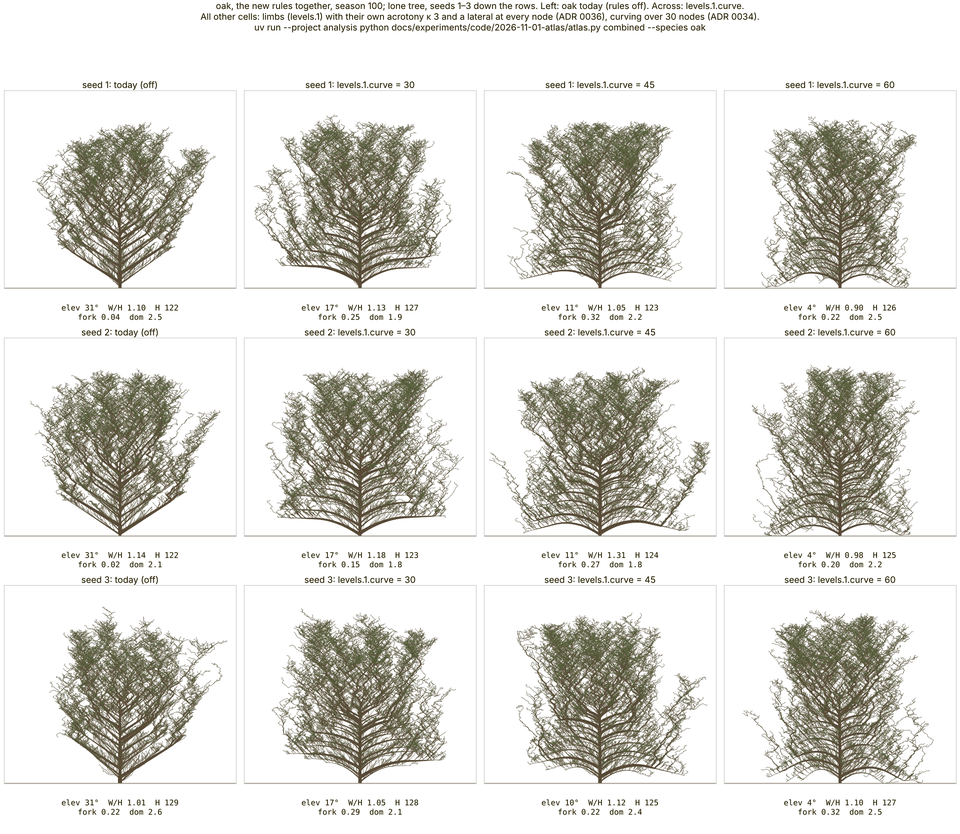
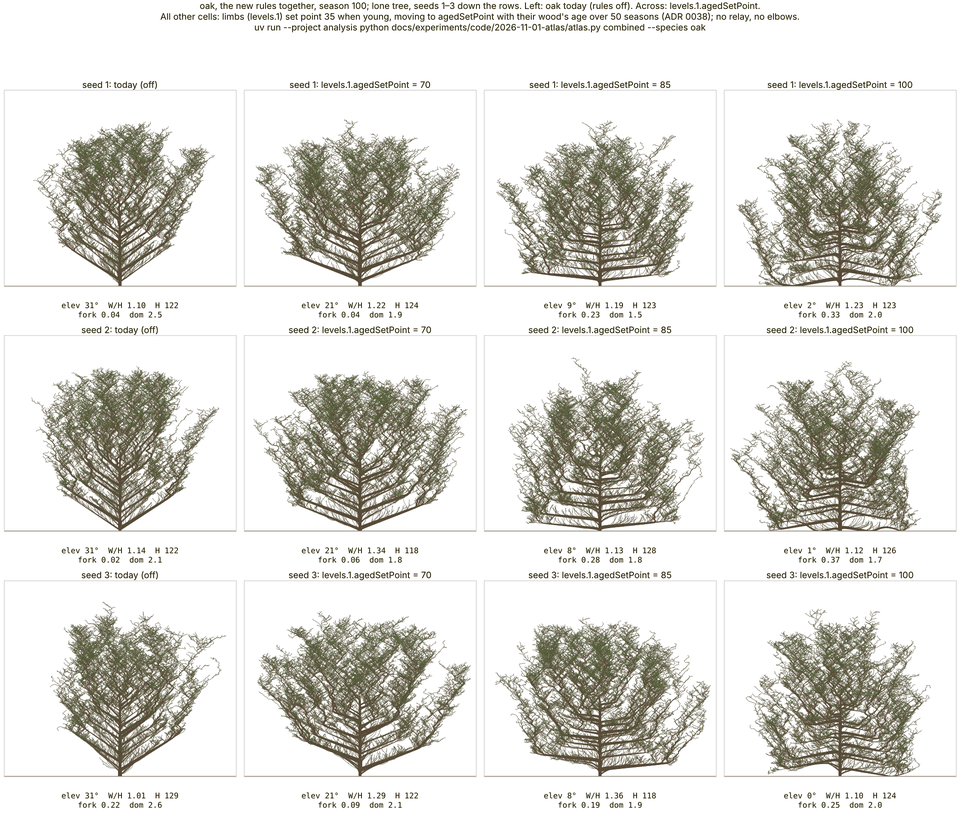
The atlas: combined sheets for hornbeam, oak, maple, willow, rowan and holly; picks.toml proposals for all eight
Claude-Session: https://claude.ai/code/session_01WY2dAShD9TmAUdQk34CWBC

diff --git a/docs/experiments/code/2026-11-01-atlas/atlas.py b/docs/experiments/code/2026-11-01-atlas/atlas.py
@@ -143,11 +143,15 @@ COMBINED: dict[str, dict] = {
         "note": "twigs (levels.2) hang at 140 up to radius 0.01 (ADR 0035), their own set point 45 in "
                 "place of today's 145 so only thin axes hang; twig laterals every k nodes (ADR 0036)",
     },
+    # Oak, second proposal (track A: "a broad, spreading head ... massive lower branches"; the trunk
+    # "tends to disappear in the crown"): posture by age, limbs steep when young (35, against 58.6
+    # in [form]) and levelling with their wood's age over 50 seasons. Elbows off. Replaces the first
+    # oak sheet (curvature + κ 3), which held at today's form.
     "oak": {
-        "base": {"r2.levels.1.kappa": 3, "r2.levels.1.lateralEvery": 1, "r2.levels.1.curveLength": 30},
-        "knob": ("r2.levels.1.curve", [30, 45, 60]),
-        "note": "limbs (levels.1) with their own acrotony κ 3 and a lateral at every node (ADR 0036), "
-                "curving over 30 nodes (ADR 0034)",
+        "base": {"r2.levels.1.setPoint": 35, "r2.levels.1.agedOver": 50},
+        "knob": ("r2.levels.1.agedSetPoint", [70, 85, 100]),
+        "note": "limbs (levels.1) set point 35 when young, moving to agedSetPoint with their wood's age "
+                "over 50 seasons (ADR 0038); no relay, no elbows",
     },
     # Beech with posture by age (ADR 0038) on top of the relay and the relays' curvature: young
     # limbs steep (set point 28), levelling toward 80 with their wood's age.
@@ -169,6 +173,44 @@ COMBINED: dict[str, dict] = {
         "knob": ("r2.levels.1.agedOver", [30, 50, 80]),
         "note": "limbs (levels.1) set point 60 when young, moving to 110 with their wood's age over "
                 "agedOver seasons (ADR 0038); everything else fir's own",
+    },
+    # Hornbeam (track A: Troll with beech; "irregular, ovoid or conic, becoming domed in old trees"):
+    # beech's direction, smaller: the relay later (25) and the relays' curve across, 20-40.
+    "hornbeam": {
+        "base": {"r2.relay": 2, "r2.relayAge": 25, "r2.relayPTerm": 0.6, "r2.levels.0.curveLength": 30},
+        "knob": ("r2.levels.0.curve", [20, 30, 40]),
+        "note": "relay 2, relayAge 25, relayPTerm 0.6 (ADR 0033); relays curve over 30 nodes (ADR 0034)",
+    },
+    # Field maple (track A: Rauh; "neatly shaped" open-grown, "a low dome"): the relay from early on,
+    # its age across, the relays curving 30 to round the top.
+    "maple": {
+        "base": {"r2.relay": 2, "r2.relayPTerm": 0.6, "r2.levels.0.curve": 30, "r2.levels.0.curveLength": 30},
+        "knob": ("r2.relayAge", [5, 10, 15]),
+        "note": "relay 2, relayPTerm 0.6 (ADR 0033); relays curve 30 over 30 nodes (ADR 0034)",
+    },
+    # Goat willow (track A: "a large, spreading, rounded shrub or small tree", "bushy"): birch's
+    # pendulous twigs on willow's own twig set point (54), the twig laterals' spacing across.
+    "willow": {
+        "base": {"r2.levels.2.pendulous": 140, "r2.levels.2.pendulousRadius": 0.01},
+        "knob": ("r2.levels.2.lateralEvery", [2, 3, 4]),
+        "note": "twigs (levels.2) hang at 140 up to radius 0.01 (ADR 0035), their own set point 54 as in "
+                "[form]; twig laterals every k nodes (ADR 0036)",
+    },
+    # Rowan (track A: "erect growth when young, becoming more spreading ... with age"; "branches stick
+    # out and are slanted upwards"): posture by age kept steep, from today's 28 to a little wider.
+    "rowan": {
+        "base": {"r2.levels.1.agedOver": 50},
+        "knob": ("r2.levels.1.agedSetPoint", [30, 40, 50]),
+        "note": "limbs (levels.1) from today's set point 28 toward agedSetPoint with their wood's age over "
+                "50 seasons (ADR 0038)",
+    },
+    # Holly (track A: Massart, "a dense pyramidal mass", "branches short, level to slightly ascending",
+    # "a narrow cone young, rounder old"): one proposal, posture by age levelling the old limbs.
+    "holly": {
+        "base": {"r2.levels.1.agedOver": 50},
+        "knob": ("r2.levels.1.agedSetPoint", [70, 80, 90]),
+        "note": "limbs (levels.1) from today's set point 62 toward agedSetPoint with their wood's age over "
+                "50 seasons (ADR 0038)",
     },
 }
 SEEDS = (1, 2, 3)

diff --git a/docs/decisions/0033-sympodial-relay.md b/docs/decisions/0033-sympodial-relay.md
@@ -23,7 +23,7 @@ Branching order is a u8 column (`Metamers.order`, `Buds.order`). A relay grows a
 
 **Fix A, chosen and applied: a relay keeps the order of the axis it replaces (substitution).** The relay's first metamer takes the host axis's order instead of order + 1, and its paShift is the host's (so pa is the host's pa, as now). Orders stop climbing along a relay chain; the laterals of a relay are one order up, as any lateral is.
 - *Touches:* `c1::grow_shoot`/`add_metamer` (an order override for the shoot's first metamer, beside the existing paShift override), `season::grow_buds` (pass it for relays), `r2::relay_shift` (the shift becomes the host's), and the unit tests. About 20 lines, no schema change, no checkpoint version, goldens unchanged (the rule is off by default).
-- *Cost:* "order" no longer counts lateral branchings on a relayed subtree; it means "the axis this one replaces". A trunk relay is order 0, so `form.rs` and `metrics.rs`, which read order 0 as the trunk and order 1 on order 0 as a limb (forkHeight, leaderDominance, the limb crown ratio, epicormic counts), count relays as trunk. That is arguably right (a relay is a trunk in Troll's model), but forkHeight changes meaning: a crown split by relays reads as an unforked trunk. forkHeight should then be read off paShift or the relay itself, which is a change in `form.rs` at adoption.
+- *Cost:* "order" no longer counts lateral branchings on a relayed subtree; it means "the axis this one replaces". A trunk relay is order 0, so `form.rs` and `metrics.rs`, which read order 0 as the trunk and order 1 on order 0 as a limb (forkHeight, leaderDominance, the limb crown ratio, epicormic counts), count relays as trunk. That is arguably right (a relay is a trunk in Troll's model), but forkHeight might change meaning: a crown split by relays could read as an unforked trunk. (As applied it does not; see below.)
 
 **Fix B: store pa (or a wider order) and drop the u8.** Either add a `pa` column and stop deriving pa from order − paShift, or widen `order` to i32.
 - *Touches:* the metamer and bud schemas in `tree.rs` and `src/core/types.ts` (METAMER_SCHEMA, BUD_SCHEMA), `checkpoint.rs` (version 3, with a reader for version 2 that rebuilds pa from order − paShift), `snapshot.rs` and the page's `TreeView` reading of columns, and every `order − paShift` site (c1, c3, r2, r3, r4, season).
@@ -34,7 +34,7 @@ A keeps the rule self-contained and free; B is the clean model, at the cost of e
 **As applied.** `season::grow_buds` stores a relay's shoot at the bud's order − 1 with its shift − 1 (the same pa) through `c1::grow_shoot`'s new `first_order` argument; `r2::relay_shift` is unchanged. Three things follow:
 - The form offsets (curvature, pendulous, posture by age) exempt **the trunk's own axis** (`axis == axis[0]`), no longer order 0, since a trunk relay is now order 0 on its own axis and must still curve.
 - C5's bud bank (`c5.rs`) gives the banked bud its order by its slot (the parent's, one more for a lateral), not the shed shoot's; for every non-relay shoot this is the same value.
-- **Checked on the accepted sheets** (combined beech-aged and birch, nine cells each at 60): the trees are bit-identical before and after (the same segments). Only `limbElevation` reads differently (0–6° higher on beech), because the laterals of a trunk relay are now order 1 on order 0 and count as trunk limbs. **`forkHeight` does not change:** it walks the trunk's main-slot chain, which already ended where a relay took over. The unit test `a_chain_of_relays_keeps_the_trunks_order` grows thirty seasons of relays and finds every order ≤ 1.
+- **Checked on the accepted sheets** (combined beech-aged and birch, twelve cells each at 60): the trees are bit-identical before and after (the same segments). Only `limbElevation` reads differently (0–6° higher on beech), because the laterals of a trunk relay are now order 1 on order 0 and count as trunk limbs. **`forkHeight` does not change:** it walks the trunk's main-slot chain, which already ended where a relay took over. The unit test `a_chain_of_relays_keeps_the_trunks_order` grows thirty seasons of relays and finds every order ≤ 1.
 
 ## Consequences
 - The u8 order limit is closed by fix A: a relay chain stays at its axis's order.

diff --git a/docs/devlog.md b/docs/devlog.md
@@ -2,6 +2,17 @@
 
 Newest first. One entry per session or milestone: what changed, why, surprises, and any golden-hash updates with their reason.
 
+## 2026-11-01: Track B (vocabulary): combined sheets for the other six; picks.toml covers all eight
+
+- **`atlas.py combined --species <sp>`** for hornbeam, oak (a second proposal, replacing the first oak sheet), maple, willow, rowan and holly, at 60 and 100 (all below the ceiling), seeds 1–3, "today (off)" first.
+- **Proposed, awaiting the user** (`picks.toml`):
+  - Oak: posture by age, limbs 35 → 85; long, near-level low limbs under a broad crown.
+  - Maple: relay from age 10; a lower fork and a rounder head.
+  - Willow: pendulous twigs with twig laterals every second node; broad and low.
+  - Holly: old limbs levelling toward 80.
+  - Hornbeam: a weak proposal (relay + curve 30); the flat cap stays.
+  - Rowan: no change; posture by age moved nothing.
+
 ## 2026-11-01: Track B (vocabulary): fix A for the relay's order; the authored picks; ADRs accepted for beech and birch
 
 - **Fix A** (the user's choice, ADR 0033): a relay is stored at the order of the axis it replaces, so orders no longer climb along a relay chain (the u8 limit). The form offsets exempt the trunk's own axis rather than order 0; C5's bud bank takes the order by slot. Goldens unchanged. The accepted beech and birch sheets are bit-identical before and after; only `limbElevation` reads 0–6° higher on beech (trunk relays' laterals count as limbs).
